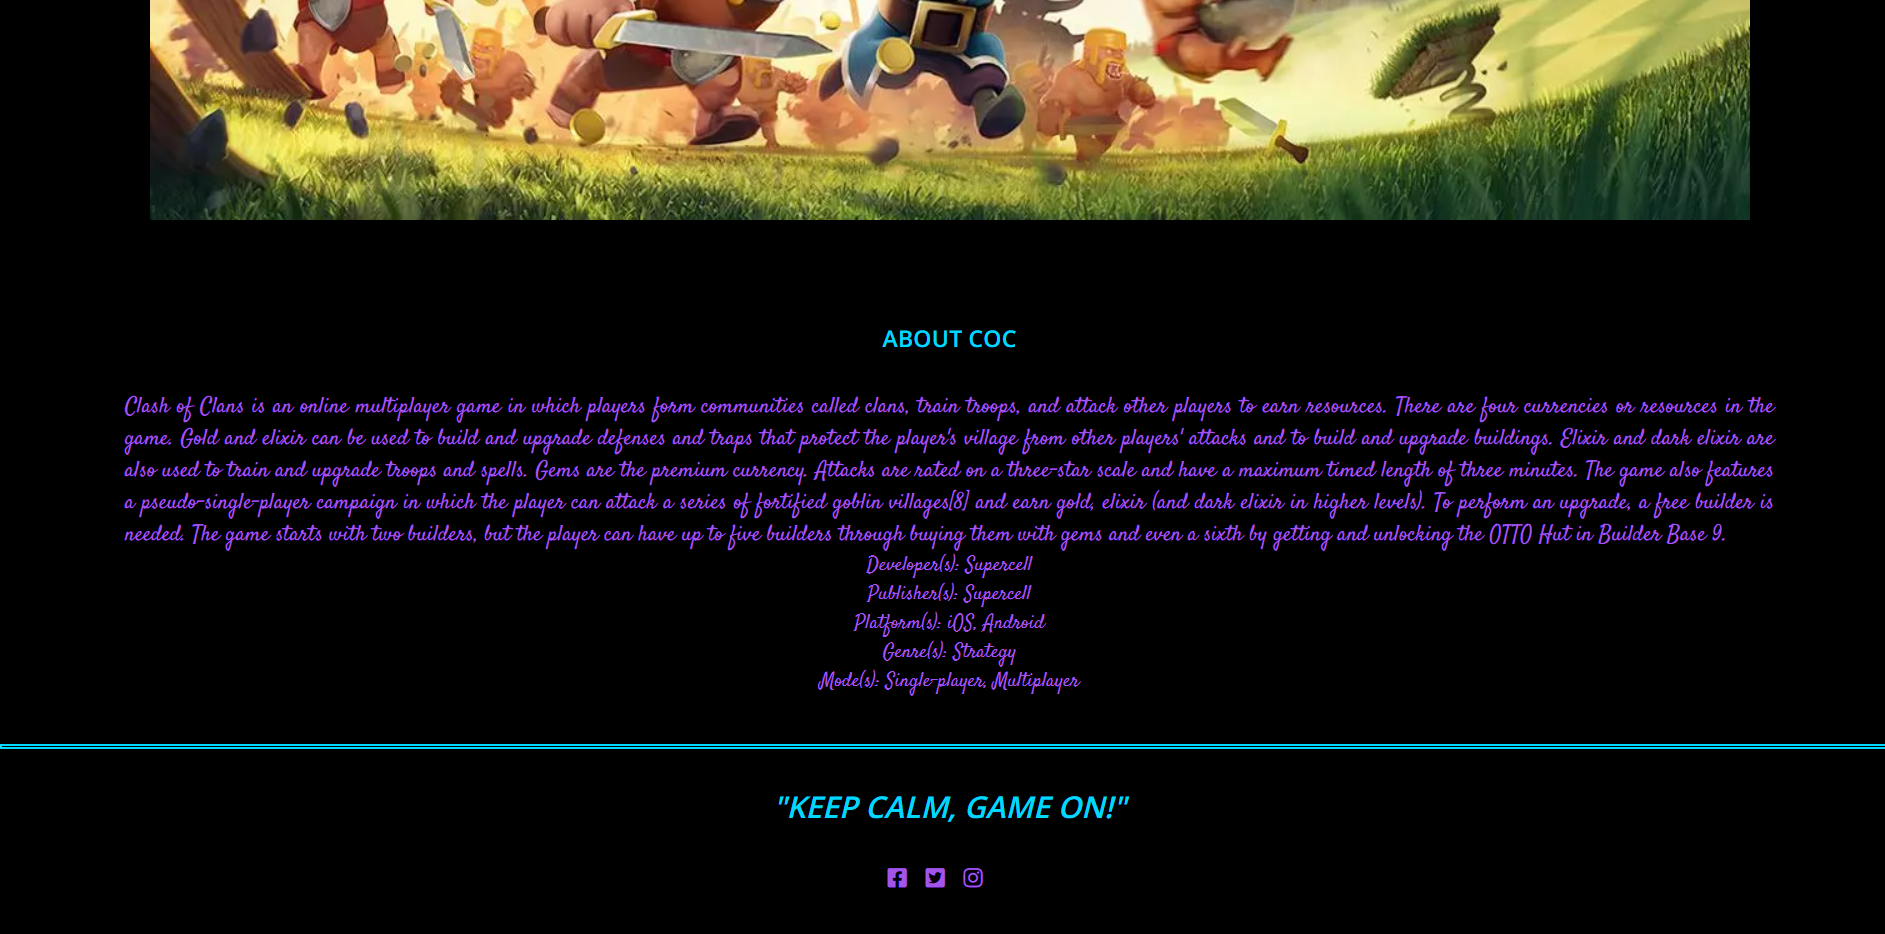
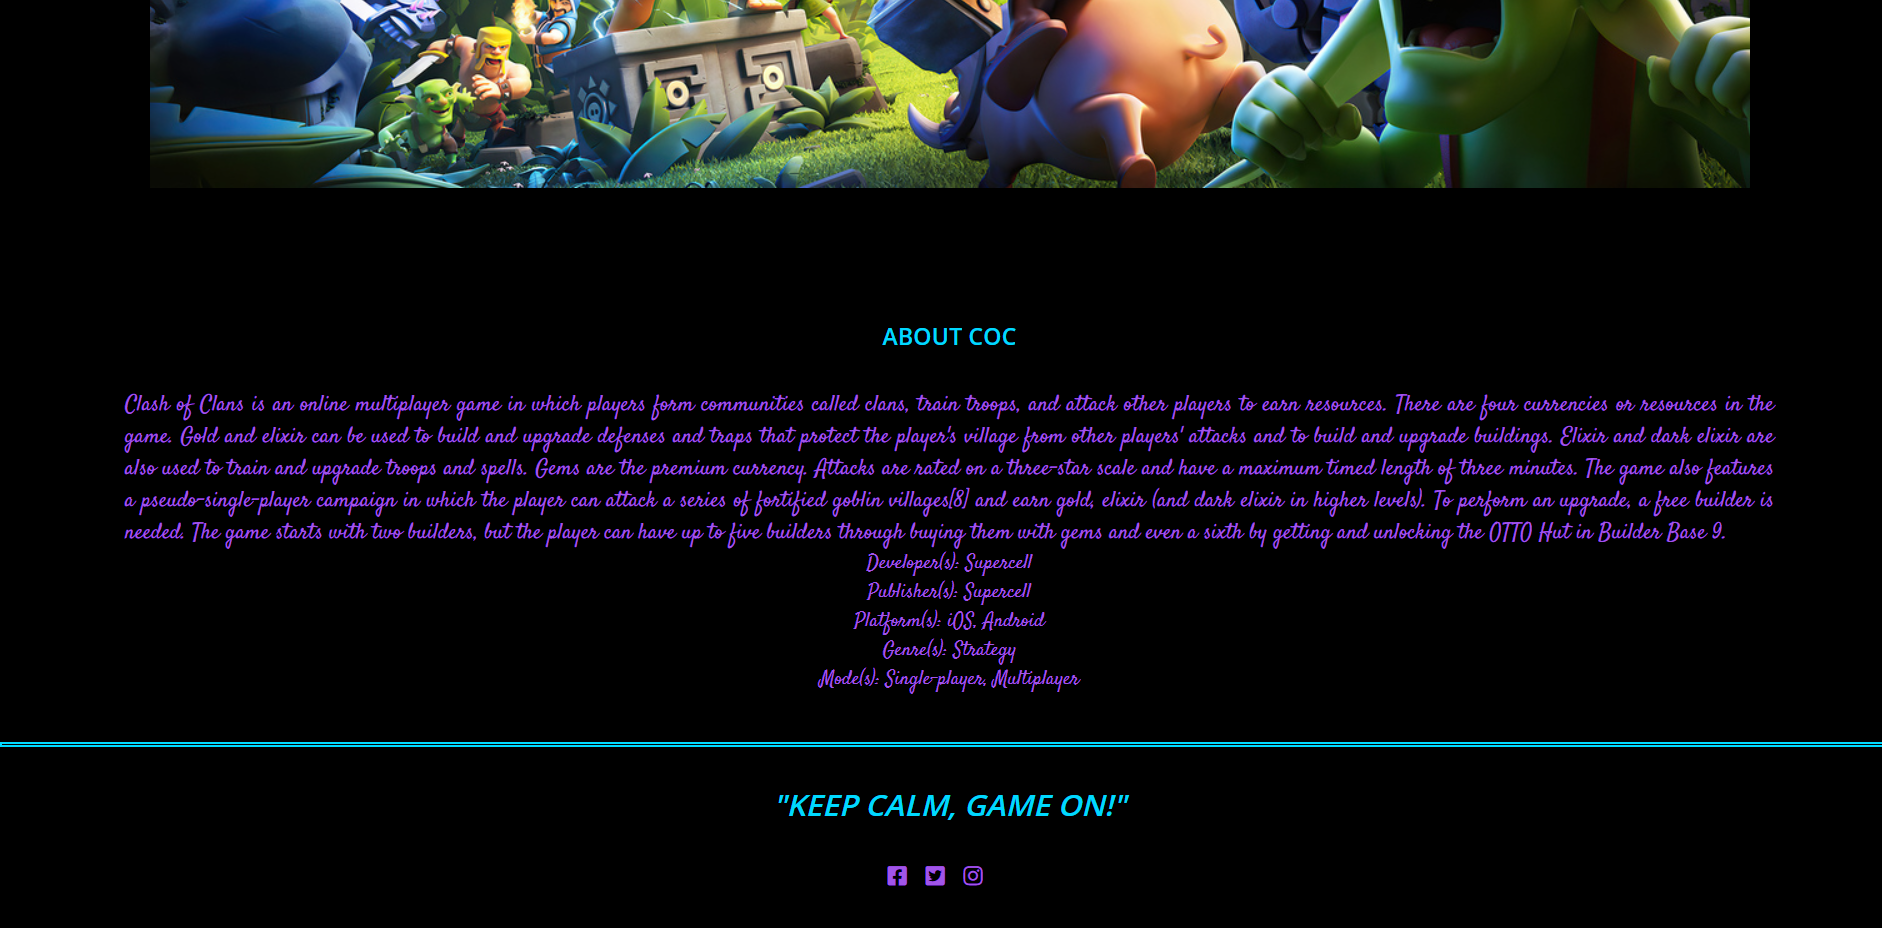
change image source

diff --git a/assets/css/index.css b/assets/css/index.css
@@ -76,7 +76,7 @@ p {
 #dota-image {
     height: 870px;
     max-width: 100%;
-    background: url(/images/dota2-image.jpg) no-repeat center center;
+    background: url(https://wallpaperaccess.com/full/5079519.jpg) no-repeat center center;
     
     /* Animates zoom effect on loading the page */
 
@@ -108,7 +108,7 @@ p {
 #coc-image {
     height: 870px;
     max-width: 100%;
-    background: url(/images/coc-image.jpg) no-repeat center center;
+    background: url(https://images.hdqwalls.com/download/clash-of-clans-town-hall-14-9w-1280x720.jpg) no-repeat center center;
     
     /* Animates zoom effect on loading the page */
 

diff --git a/README.md b/README.md
@@ -81,8 +81,8 @@ The site is simple 3 pages layout, easily accesible to anyones device.
 ![gamespage](images/gamespage3.png)
 ![gamespage](images/gamespage4.png)
 * A membership page that has a simple structure and can be understood by young and old, as well as gamers an non-gamers.
-![membership](images/membershippage1.png)
 ![membership](images/membership.png)
+![membership](images/membershipform.png)
 ---
 
 ## Technologies Used
